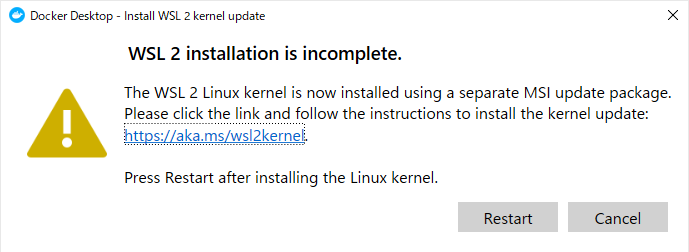
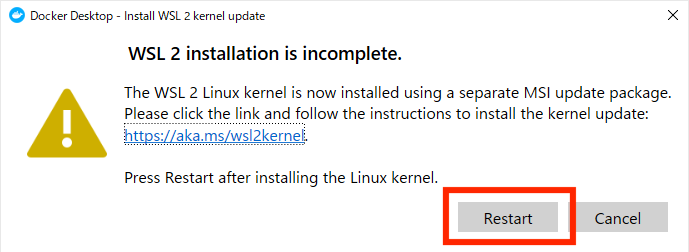
add mac doc

Changed region(s): [[0.6401, 0.7222, 0.8534, 1.0]]

diff --git a/docs/install-docker-windows.md b/docs/install-docker-windows.md
@@ -1,0 +1,120 @@
+# Windowsでの環境構築
+
+## 参考ページ
+なにかあればこちらの記事と照らし合わせるとよい
+
+[Windows 10 HomeへのDocker Desktop (ver 3.0.0) インストールが何事もなく簡単にできるようになっていた (2020.12時点)](https://qiita.com/zaki-lknr/items/db99909ba1eb27803456)
+
+## Dockerのダウンロード
+
+1. [Docker Desktop](https://www.docker.com/products/docker-desktop)にアクセス
+
+2. Download for Windowsをクリック
+<img width="1200" alt="Docker Desktop Mac" src="images/docker-desktop-page-win.png">
+
+3. ダウンロードされたファイルをクリックして起動
+
+4. インストールの開始，設定などには手を加えず，次に進んでいく
+  - もし下記の画面になったら[Windows Updateが必要な場合](#Windows Updateが必要な場合に進む)
+
+<img width="1200" alt="install failed" src="images/docker_install_failed.png">
+
+5. インストール完了
+  - もし下記の画面が出たら[WSL2の更新が必要な場合](#WSL2の更新が必要な場合に進む)
+  <img width="1200" alt="wsl update" src="images/wsl2_done_restart.png">
+
+4. Docker Desktopの起動
+  - 下記に似た画面が出たらインストール及び起動が完了
+  <img width="1200" alt="install donw" src="images/docker-desktop.png">
+
+## インストールの確認
+
+### 1. 下記のどちらかでコマンドプロンプトを起動
+- 「Windowsキー」押して「cmd」と入力して「Enter」を押して起動
+- 「Windowsキー」押して「コマンドプロンプト」を検索して起動
+
+### 2. コマンドで確認( *$は入力しなくて良い* )
+
+```bash
+$ docker --version
+$ docker-compose -verison
+```
+
+出力例
+
+<img width="1200" alt="cmd.png" src="images/version.png">
+
+## 必要なファイルを準備
+
+1. 以下のリンクから環境構築に使うファイルをダウンロードする
+    * https://github.com/marutaku/docker-fastapi-mysql-app
+    * 右の方にある緑色の Clone or download ボタンから ZIP を選択
+   <img width="1200" alt="Download zip" src="images/clone-zip.png">
+
+2. zip ファイルを*デスクトップ*に移動
+3. zipファイルを展開する
+
+---
+各自で行ってくるのはここまで。次の「環境構築」からは授業内で行う
+
+---
+
+# 使用方法
+
+基本的にどの項目も毎回登場する
+
+## 起動
+
+1. コマンドプロンプトでダウンロードしたファイルがある場所に移動( *$は入力しなくて良い* )
+
+```bash
+$ cd
+$ cd Desktop
+$ cd docker-fastapi-mysql-app
+```
+
+2. Dockerコンテナ起動( *$は入力しなくて良い* )
+
+```bash
+$ docker-compose up
+```
+
+*注意*
+
+初回はかなり時間がかかるので，下記のログが出力されるまではしばらく待機
+
+<img width="1200" alt="initail data log" src="images/mysql-initialize.png">
+
+## 停止
+1. `docker-compose up` コマンドを実行したウィンドウで `Ctrl + c`
+
+
+## 動作確認
+
+1. 起動中に`https://localhost:8080` にアクセス
+2. 下記の画面が表示されれば完了
+
+<img width="1200" alt="toppage" src="images/toppage.png">
+
+## Windows Updateが必要な場合
+
+1. [Windowsダウンロードのページ](https://www.microsoft.com/ja-jp/software-download/windows10IS://www.microsoft.com/ja-jp/software-download/windows10)に進み，下記のボタンからダウンロードする
+
+<img width="1200" alt="install failed" src="images/docker_install_failed.png">
+
+2.  [元の手順](#Dockerのダウンロード)に戻る
+
+
+## WSL2の更新が必要な場合
+
+1. 下記の画面の*「restart」ではなく*リンクをクリック
+<img width="1200" alt="" src="images/install_wsl_kernel_link.png">
+2. 開かれたページの下記のリンクをクリック
+<img width="1200" alt="" src="images/linux_update_download_page.png">
+3. ダウンロードされたファイルを開いて，下記の画面が出たら特に変更なく進めていく
+<img width="1200" alt="" src="images/linux_setup.png">
+4. 下記の画面まで進めれば完了
+<img width="1200" alt="" src="images/linux_setup_done.png">
+5. 初めの画面の「restart 」をクリックして再起動
+<img width="1200" alt="" src="images/linux_update_download_page.png">
+5. 再起動が完了したら[元の手順](#Dockerのダウンロード)に戻る

diff --git a/docs/install-docker-mac.md b/docs/install-docker-mac.md
@@ -1,4 +1,4 @@
-# 環境構築
+# Macでの環境構築
 
 ## CPUの確認
 
